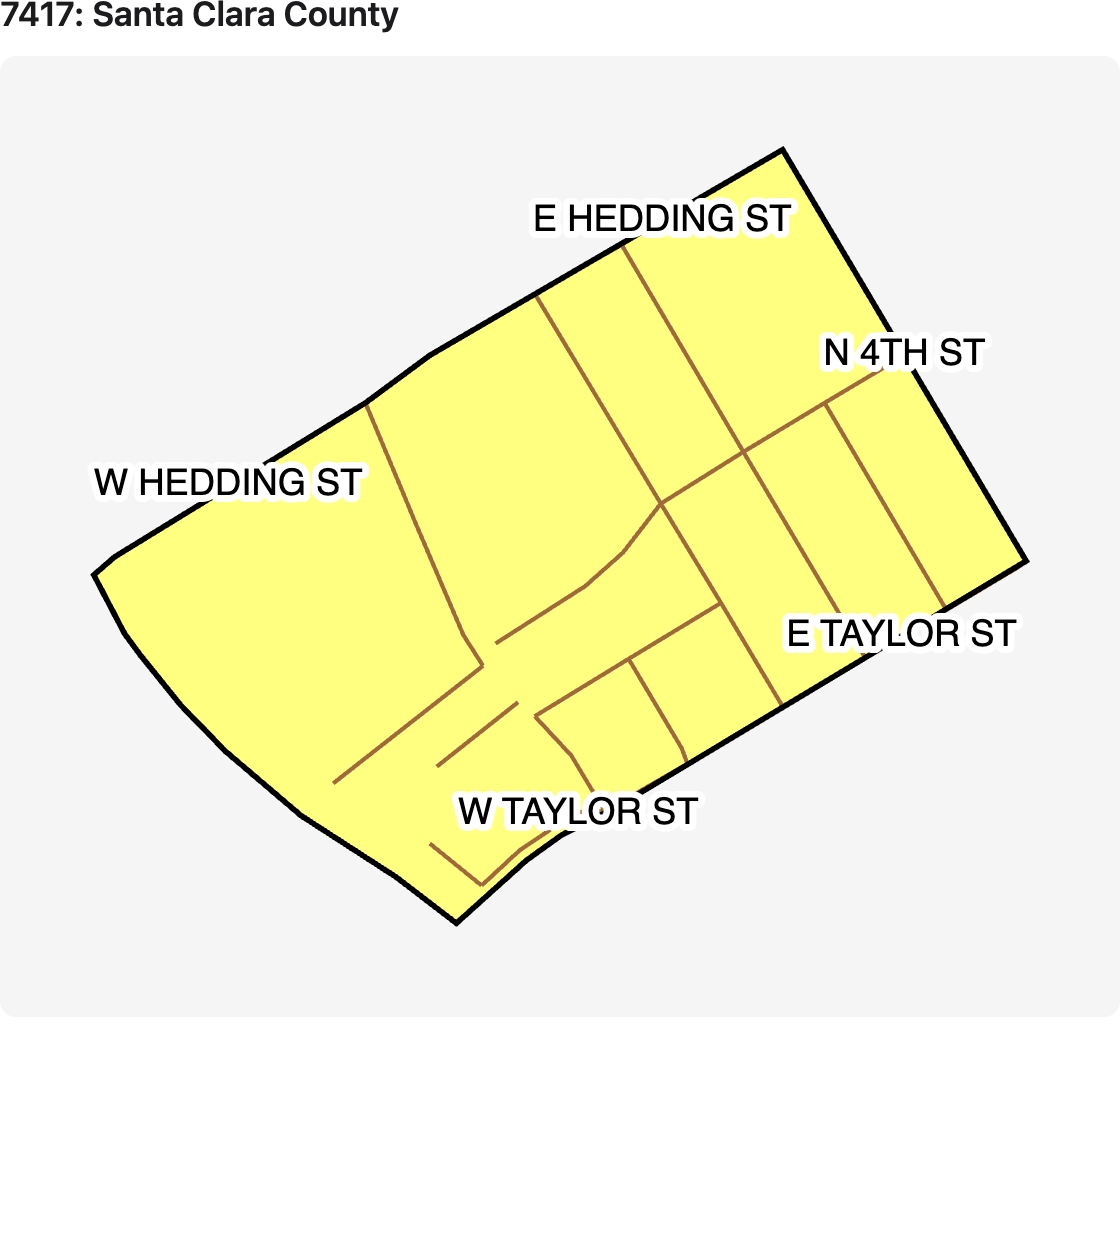
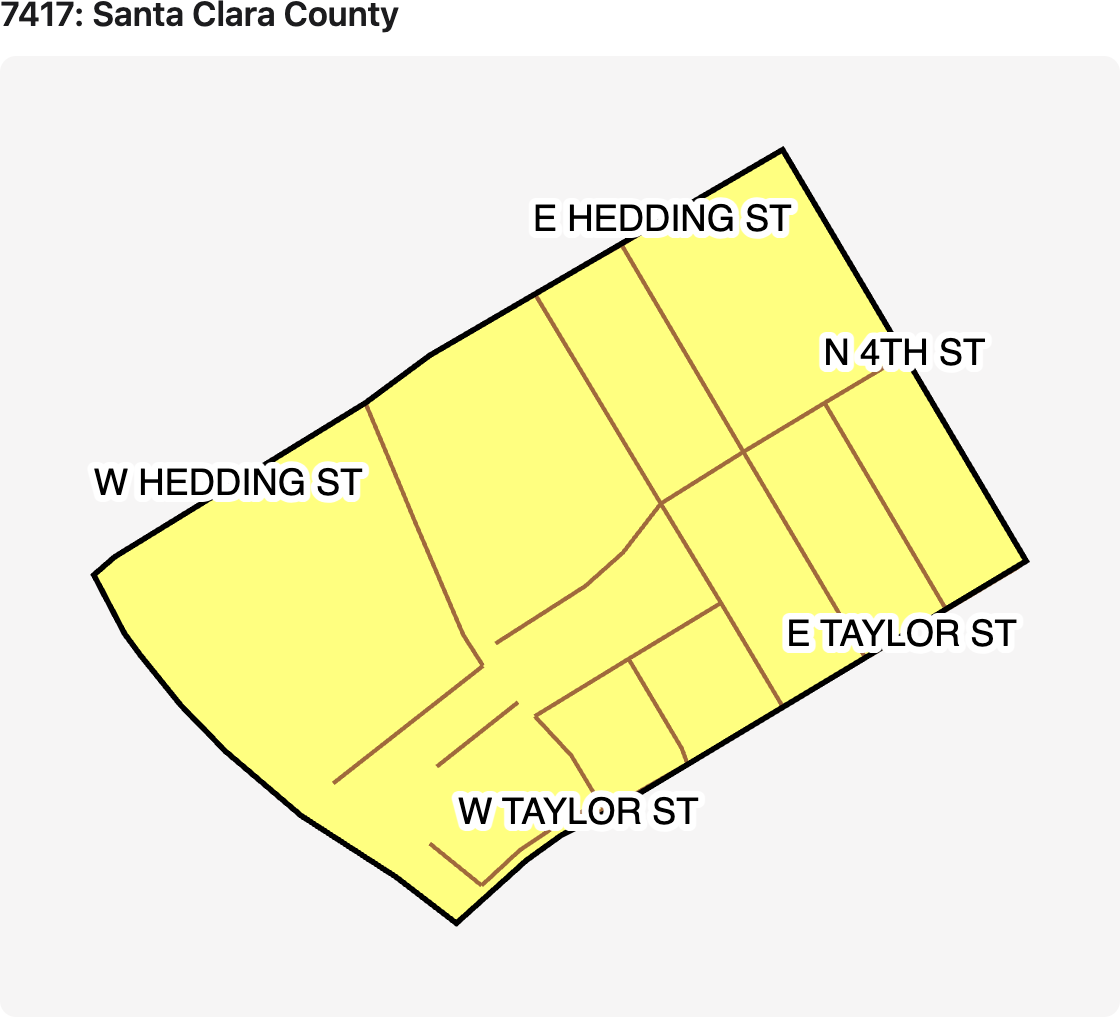
Try top align tag.

diff --git a/README.md b/README.md
@@ -6,9 +6,9 @@ browser from static files, so it needs no API call and the address never leaves 
 and Santa Clara Counties and renders a map of each precinct.
 
 <p>
-  <img src="docs/38-7532.png" alt="San Francisco" width="32%">
-  <img src="docs/41-46126.png" alt="San Mateo" width="32%">
-  <img src="docs/43-7417.png" alt="Santa Clara" width="32%">
+  <img align="top" src="docs/38-7532.png" alt="San Francisco" width="32%">
+  <img align="top" src="docs/41-46126.png" alt="San Mateo" width="32%">
+  <img align="top" src="docs/43-7417.png" alt="Santa Clara" width="32%">
 </p>
 
 A range is a run of house numbers on one side of a street, all in one precinct:
